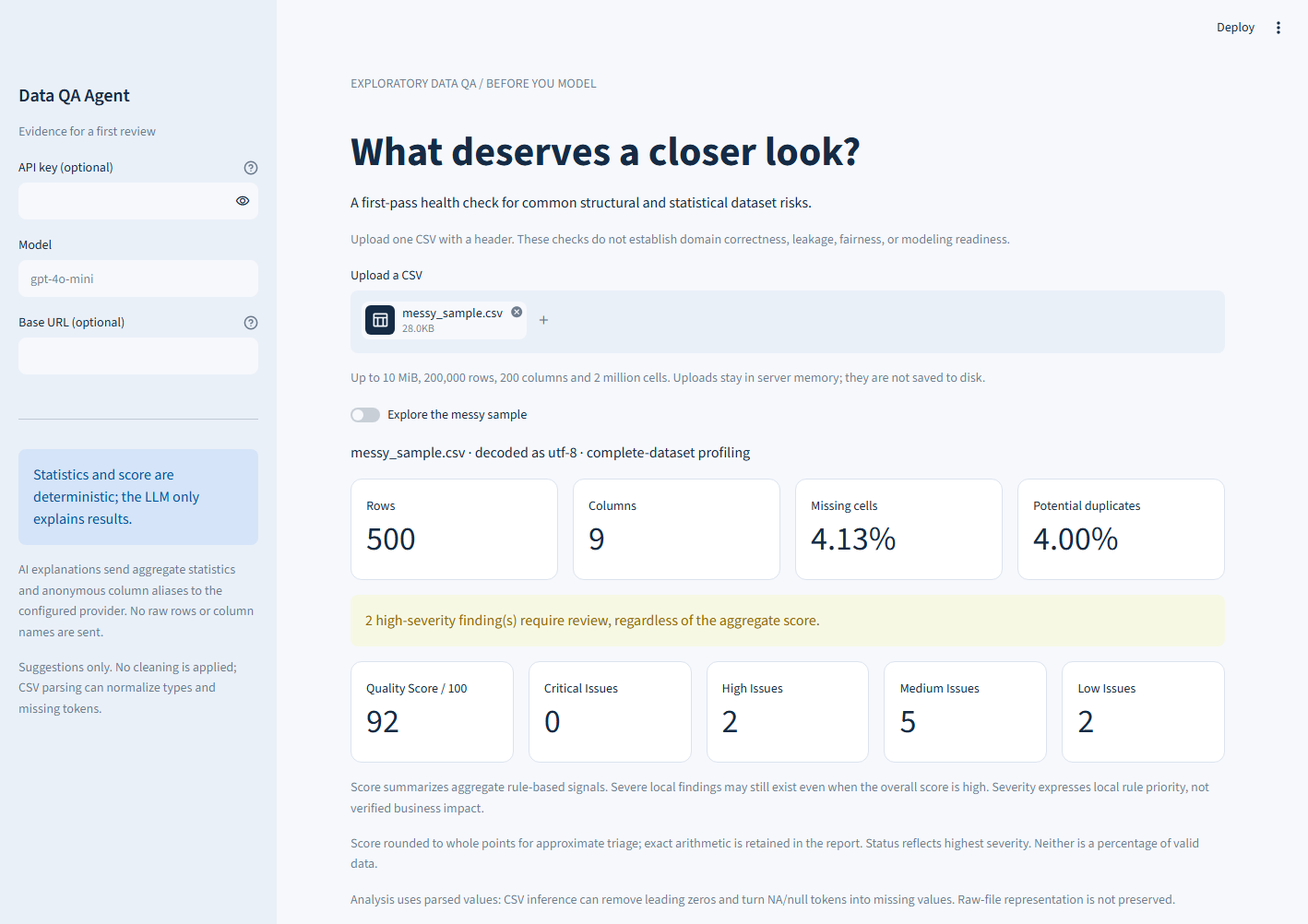
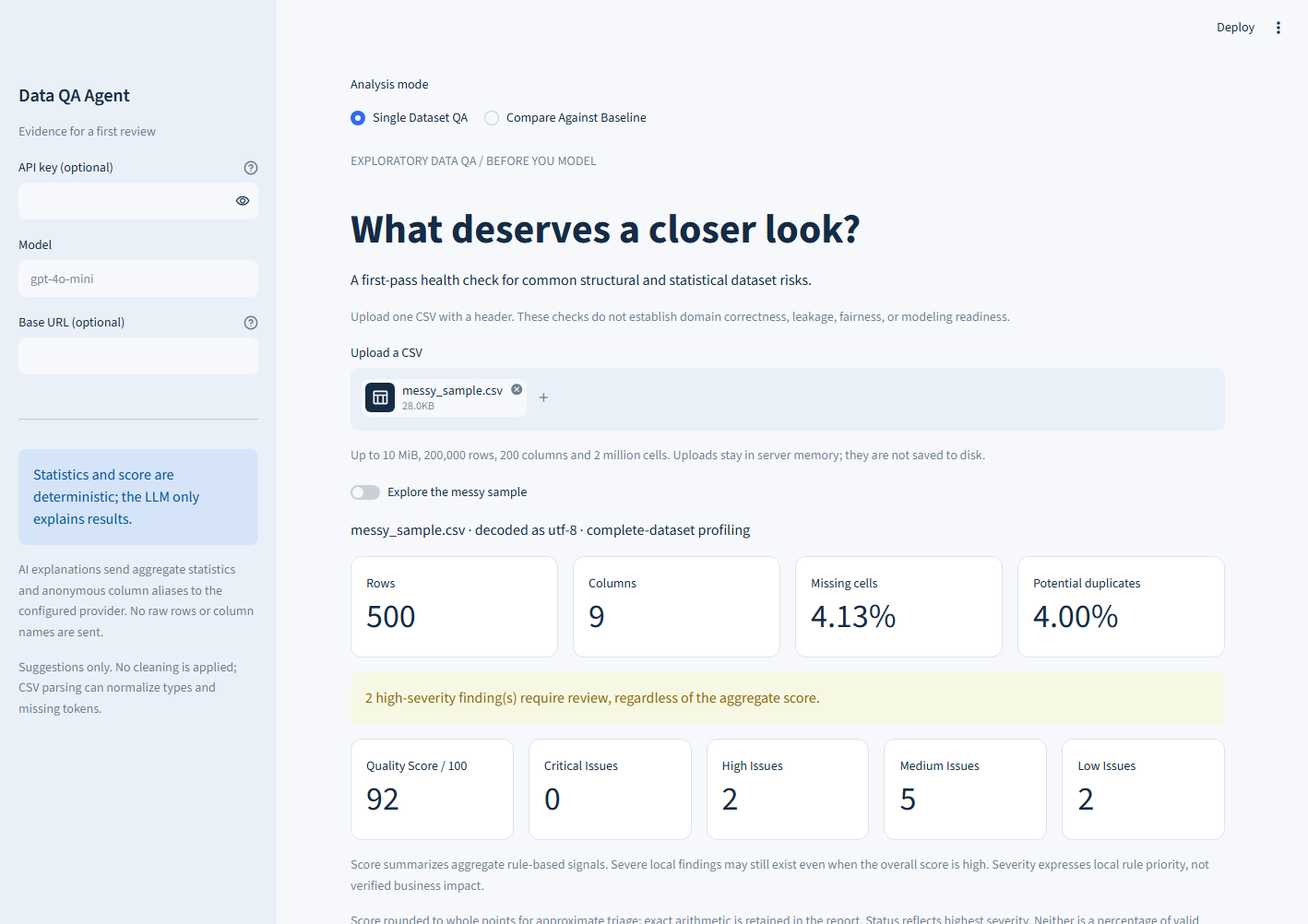
Document V2 methods, privacy boundaries, red-team findings and validation

diff --git a/docs/V2_DRIFT.md b/docs/V2_DRIFT.md
@@ -1,0 +1,74 @@
+# V2 baseline comparison: methods and boundaries
+
+`compare_datasets(baseline_df, current_df, policy=DriftPolicy(...))` returns JSON-compatible comparison schema **2.0**: `summary`, `schema`, `dataset_metrics`, shared `columns`, ordered `findings`, and the complete effective `policy`. Results have no timestamp or filename; runtime metadata belongs to optional history. App version is 2.0.0. V1 profile schema 1.4 and score policy 1.0 are unchanged.
+
+## Direction and denominators
+
+Signed changes are **current minus baseline**. Relative change is `100 * difference / abs(baseline)` when the baseline is nonzero. Absolute differences of rates are **percentage points**, separately from relative percentage change. Zero baseline or absent denominator yields JSON `null`/UI N/A. Zero rows or no shared columns yields `not_comparable`.
+
+Missingness uses pandas nulls. Duplicates count exact repeated rows after the first, divided by rows. Overall missingness divides missing cells by all cells; schema changes affect this denominator. Uniqueness divides distinct non-null values by non-null observations. These follow pandas semantics, not declared key constraints.
+
+## Schema and representation
+
+Added columns are informational; removed columns are moderate review findings. Dtype changes with the same inferred family (such as int to float) are informational. Nonempty family changes are moderate. Numeric-like text and datetime-like text use an 80% parseability threshold. These are observed representations, not intended semantics; empty columns have unknown semantics.
+
+Datetime strings require explicit year-first `YYYY-MM-DD` syntax, optionally followed by time, and successful parsing. Ambiguous regional dates and bare epoch numbers are not guessed. Native timestamps become UTC. Date-only, timestamp-text and native representation changes are informational, even when coverage is identical. Malformed non-null dates affect parseability, not missingness.
+
+## Numeric distributions
+
+**KS distance** is `max_x |F_baseline(x) - F_current(x)|` over combined observed support, in [0, 1]. Sorted Python numeric values and a two-pointer scan preserve integer ordering above 2^53 and handle ties together. No bins, smoothing, SciPy dependency, p-values, random sampling or significance claims are involved. The distance matches the two-sided statistic in the [SciPy primary documentation](https://docs.scipy.org/doc/scipy/reference/generated/scipy.stats.ks_2samp.html); this application does not implement the hypothesis test.
+
+Statistics include finite count, mean, median, sample standard deviation (`ddof=1`), min/max and 5/25/75/95 percentiles. Nulls/infinities are excluded from the distribution; positive/negative infinity counts remain visible. Fewer than two finite values gives undefined std; an empty finite sample gives undefined distance. Constant shifts can have distance one.
+
+Moments and quantiles use a scaled, canonically sorted float64 workspace to avoid square overflow and row-order-dependent summation. Extrema and KS retain parsed integer ordering; moments/quantiles remain approximate for large integers. V1's finite magnitude limit **1e150** also applies to V2, including numbers in object columns. Larger values are safely rejected. Numeric-looking CSV strings are not silently coerced into native numeric comparisons.
+
+## Categorical distributions and cardinality
+
+**Total variation distance (TVD)** is `0.5 * sum(|p_baseline(category) - p_current(category)|)` over the union of categories, excluding nulls. It lies in [0, 1]; zero means identical observed proportions. Unseen categories have zero probability on the other side, so no smoothing is needed. Membership changes are informational. Mixed object category keys distinguish strings, numbers and booleans.
+
+All values contribute to exact counters. Up to ten category changes/new/disappeared examples are displayed, truncated to 80 characters each; truncated labels need not be unique. Full support, not displayed top categories, determines TVD. If union cardinality exceeds 200, or either side has at least 20 non-null values and uniqueness >= V1's 0.95 advisory cutoff, composition details and TVD are suppressed. New/disappeared counts and cardinality remain visible without category labels. Some legitimate diverse fields are suppressed; no identifier role is established.
+
+Unique-count changes >=50% are informational. Uniqueness-ratio changes have separate bands. Sample-size changes can naturally change observed cardinality.
+
+## Datetime coverage
+
+Coverage includes earliest/latest UTC timestamp, span in days, parsed count and unique timestamp count. With at least 20 distinct timestamps per side, a span at most half the baseline or a current end at least one day earlier produces a moderate finding. Later windows are observed, not automatically suspicious.
+
+Internal gaps are reported only when every baseline distinct-timestamp interval is exactly equal and positive, and a current interval exceeds three times that cadence. Irregular baselines imply no schedule. This is comparison against observed coverage, not a business calendar, freshness SLA, seasonality model or cause.
+
+## Centralized heuristic thresholds
+
+Frozen, validated `drift.DriftPolicy` controls all thresholds and display limits; results embed its effective values.
+
+| Signal | Moderate | High |
+|---|---:|---:|
+| Shared-column missingness | 5 pp | 20 pp |
+| Overall missing/duplicate rates | 5 pp | 20 pp |
+| Relative row-count change | 20% | 50% |
+| KS distance | 0.10 | 0.25 |
+| Categorical TVD | 0.10 | 0.25 |
+| Uniqueness-ratio change | 10 pp | 30 pp |
+
+These are simple review policies, **not significance cutoffs or calibrated probabilities**. Absolute magnitudes are used: improvements also count as change. KS/TVD and cardinality alerts require at least 20 appropriate observations per side. Small-sample metrics can be displayed but are explicitly unassessed for distribution severity. This minimum does not establish representativeness or statistical power. Dataset counts/rates and schema changes remain direct observations, even for small inputs.
+
+Any high finding, or at least three moderate findings, gives **High observed drift**; otherwise any moderate gives **Moderate**; informational findings alone give **Low**. Related findings can overlap. This is not a score or probability. **Low drift does not mean healthy data**: identical bad datasets, all-null columns and skipped distributions can have low drift. The UI shows assessment coverage.
+
+## Trust and privacy
+
+Band comparisons use a centralized 1e-12 absolute/relative numerical tolerance to avoid missing exact decimal boundaries such as a theoretical TVD of 0.10 represented as 0.09999999999999998. This is floating arithmetic tolerance, not statistical uncertainty or a different severity policy.
+
+Core comparison and authored guidance need no provider. `comparison_llm.py` sends allowlisted numeric evidence and anonymous finding IDs/kinds, never filenames, column names, category labels, raw examples, timestamps or extrema. Model output cannot replace facts, order or severity. V1 schema/identity/order and lexical validation are reused, with additional causal/significance/severity phrase rejection. Failed/rejected output retains authored guidance and report access. Generated text says "Generated interpretation. Verify before acting."
+
+These guards do not semantically verify prose. Paraphrased falsehoods can pass; harmless negated wording can be rejected. No V2 live-provider success or measured explanation-quality benefit is claimed. Comparison Markdown exports omit generated prose and category values; names and aggregates remain sensitive.
+
+## Local history
+
+History is disabled unless the administrator sets **QA_HISTORY_PATH**. On trusted single-user installations the UI offers explicit Save and recent-run inspection. SQLite stores run ID, timestamp, sanitized basename filenames, row counts, status, finding-type counts and comparison version. It retains 50 runs using transactions/idempotent IDs. No datasets, column names, categories or AI text are stored. Filenames can still be sensitive.
+
+Detected non-database/corrupt files are preserved with a `.corrupt-<id>` suffix before a new history is created. Bad JSON records are skipped with a warning. Locked/incompatible databases are not renamed/reset. Quarantined files are not automatically deleted. This is not authentication, tenant isolation or durable cloud storage. Leave history disabled on public demos; enabled history is shared across visitors to that installation.
+
+## Performance and omissions
+
+All rows are analyzed without sampling. Numeric sorting is O((n+m) log(n+m)); category counting is linear before support sorting. Per-input V1 guards remain 10 MiB, 200k rows, 200 columns, 2m cells and 256 MiB deep-frame memory. Two frames, uploads and intermediates coexist; these are not process/host budgets. The shared reentrant analysis lock still protects process-global warning contexts.
+
+Derived baseline snapshots are deferred: exact empirical KS needs the empirical distribution, potentially approaching raw-value retention, and category snapshots add privacy/versioning semantics. Direct file comparison is complete. Also omitted: autonomous investigation, model-executed Python/SQL, automatic cleaning, causality, forecasting, external storage, authentication and SaaS infrastructure.

diff --git a/VALIDATION.md b/VALIDATION.md
@@ -1,5 +1,65 @@
 # Validation evidence
 
+## V2 baseline comparison acceptance (2026-10-02)
+
+Baseline: existing local V1.2 snapshot matched the published `d565180` tree. Before V2, **92 tests passed in 18.92s**, Ruff passed, and the remote branch was inspected without rewriting history. Application 2.0.0 adds comparison schema 2.0; V1 profile 1.4 and score policy 1.0 remain unchanged. No package dependency was added.
+
+| Check | Observed result |
+|---|---|
+| Windows 10 / Python 3.11.3 full suite | **158 passed in 18.54s**: 92 existing tests + 66 V2 cases |
+| Debian 12 / WSL / Python 3.11.2 full suite | **158 passed in 34.94s** |
+| Ruff and `pip check` | Passed on Windows and Linux |
+| Existing synthetic / behavioral / score evals | **8/8, 5/5, 10/10**, unchanged expectations |
+| New V2 structured evals | **24/24**, including negative controls and direction/JSON invariants |
+| Real Chrome smoke | Passed V1 and V2 uploads, no-key mode, charts (V1), baseline/current direction, comparison drift, Markdown downloads, malformed-input recovery and stale-download clearing |
+| Provider boundary | Mocked valid/rejected/failing calls passed; **V2 live provider: Not verified**, no paid V2 call made |
+| Public Streamlit deployment | **Not verified**; no tested public URL |
+| Deliverable credential/private-path scan | **94 files; zero matches**, using common credential patterns plus configured-key matches and machine home-path patterns |
+
+The browser's first load attempts timed out because the fixed test/debug connection resolved to another local application. The harness now allocates an independent debug port and verifies its exact target; the app was explicitly bound to loopback port 18517. The full browser smoke then passed. No other application was terminated. Screenshots are `docs/demo.png` and `docs/comparison.png`.
+
+### Commands and scope
+
+From the repository root with the existing Windows virtual environment:
+
+```powershell
+.venv-v1-1/Scripts/python -m pytest -q
+.venv-v1-1/Scripts/python -m ruff check .
+.venv-v1-1/Scripts/python -m pip check
+.venv-v1-1/Scripts/python evals/comparison.py --output evals/comparison-results.json
+.venv-v1-1/Scripts/python benchmarks/comparison.py --output benchmarks/comparison-results.json
+# Clear provider configuration and history in this test shell.
+$env:OPENAI_API_KEY=''
+$env:OPENAI_BASE_URL=''
+$env:QA_HISTORY_PATH=''
+.venv-v1-1/Scripts/python -m streamlit run app.py --server.headless true --server.address 127.0.0.1 --server.port 18517
+# In another shell, set CHROME_PATH to your Chromium executable and:
+$env:QA_BROWSER_PORT='18517'
+.venv-v1-1/Scripts/python tests/browser_smoke.py
+```
+
+All four evaluation `run()` functions were also invoked together with assertions on every `passed` flag. Linux reused the isolated Debian interpreter and Linux packages described in the V1.2 section, running pytest, Ruff, pip consistency and all four evaluation suites. Source is on a Windows-mounted filesystem: this verifies Linux execution, not case-sensitive filesystem behavior or a Community Cloud image.
+
+### Methods and edge cases
+
+KS uses full finite empirical support; TVD uses full non-null category support unless high cardinality is explicitly suppressed. No sampling, random bins, p-values or significance claims. Centralized policy defaults: missing/rate changes 5/20 pp, rows 20/50%, KS and TVD .10/.25, uniqueness 10/30 pp, minimum 20 observations for distribution severity. Effective policy is embedded in results. See [methods](docs/V2_DRIFT.md) for formulas, zero denominators, datetime cadence rules and the 1e-12 boundary tolerance.
+
+Tests cover empty/one-row/disjoint schemas, nullable types, missingness both directions, constant distributions, non-finite values, huge integers, supported extreme floats and safely rejected magnitudes, malformed dates, high cardinality, category ordering, unseen categories/zero probabilities, duplicate headers, row permutations and concurrent warning restoration. Local history tests cover save/reload, pruning/idempotence, preserved corruption recovery, wrong JSON types and locked-database safety. Mocked UI tests verify generated labels and rejected-output fallback. See [red-team findings](docs/V2_RED_TEAM.md).
+
+### V2 resource snapshot
+
+Windows/Python 3.11.3, pandas 2.3.3, NumPy 2.4.6, eight logical CPUs. Two four-column frames per case; fresh process per size; input construction excluded; sampled RSS every 5ms includes retained inputs and imports. Core only: no CSV parsing, Streamlit, history, LLM or concurrent-user cost.
+
+| Rows per input | Seconds | Sampled peak RSS |
+|---|---:|---:|
+| 1,000 | 0.0788 | 77.48 MiB |
+| 10,000 | 0.4855 | 86.20 MiB |
+| 100,000 | 4.7726 | 167.70 MiB |
+
+These are single local observations, not latency percentiles or hosted capacity. Both uploads/frames can coexist with a retained single-dataset session. Per-input limits and serialized analysis do not bound total host memory.
+
+Remaining uncertainty: uncalibrated severity, overlapping findings, lossy CSV inference, skipped/tiny distributions, approximate float64 moments, no business calendar or causal inference, lexical-only explanation guards, local history without tenant isolation, no persistent baseline snapshot, no verified public V2 deployment. Earlier sections below retain historical V1 evidence and remote run links.
+
 ## GitHub publication follow-up (2026-09-27 UTC)
 
 The user supplied `https://github.com/kaimouren/analysis_tool.git`; it had no remote refs. GitHub credentials were available at this follow-up. The reviewed 80-file source archive was committed without the old local history and pushed as `6c6c5d24610cbc0830c0819eba5eb7ca137315f1` on `main`. No existing repository content was overwritten.

diff --git a/README.md b/README.md
@@ -2,6 +2,29 @@
 
 **A deterministic-first CSV health check that surfaces common structural and statistical risks before modeling, with optional LLM explanations.**
 
+V2 adds **baseline comparison and data drift analysis**. Keep the existing health check, or compare a previous CSV with a current CSV. Python computes all evidence, metrics, ordering and severity; optional generated text only explains that evidence.
+
+## Compare against a baseline (V2)
+
+Select **Compare Against Baseline**, upload **Baseline dataset** and **Current dataset**, then click **Compare**. A built-in example works without files or a provider key. Results include schema, row/column counts, missingness/duplicates, cardinality, numeric/categorical distributions and conservative datetime coverage, with shared-column details and Markdown download.
+
+An illustrative review might compare 100k January customer records with 95k February records and reveal mobile share +18 percentage points, email missingness +12 percentage points, and a downward revenue distribution shift. These observations do not establish why changes happened or whether they are harmful.
+
+Numeric comparison uses KS distance; categorical comparison uses total variation distance. Missingness differences are **percentage points**. Zero denominators show N/A. Low/Moderate/High observed drift is a heuristic, not a calibrated probability or quality score. Low drift can coexist with unhealthy or unassessed data.
+
+![Baseline/current comparison](docs/comparison.png)
+
+The independent API is:
+
+```python
+from comparison import compare_datasets
+result = compare_datasets(baseline_df, current_df)
+```
+
+All rows are analyzed. High-cardinality category details are suppressed; small-sample distances receive no distribution severity. Finite numeric magnitudes over 1e150 are rejected. Read [V2 methods, thresholds, schema and limitations](docs/V2_DRIFT.md).
+
+Optional **local run history** stores metadata only. On a trusted single-user installation, set `QA_HISTORY_PATH` to `.qa-history/comparisons.sqlite3`, restart, and use **Save run to local history**. Recent history retains 50 entries. Leave the variable unset on public deployments: server-local history is not isolated between visitors. Raw datasets, category values and generated prose are never stored. Derived baseline snapshots are deferred; direct file comparison is supported.
+
 ## Live Demo
 
 Public deployment: **Not verified**. No public URL is claimed. Run locally and select **Explore the messy sample**.
@@ -48,9 +71,16 @@ flowchart LR
     Score --> Report
     Optional --> Report
     Optional --> UI
+    Baseline[Baseline CSV] --> Comparison[Deterministic comparison]
+    Current[Current CSV] --> Comparison
+    Comparison --> DriftUI[Drift UI and report]
+    Comparison --> DriftLLM[Optional grounded explanation]
+    Comparison --> History[Opt-in local metadata history]
 ```
 
 `ingestion.py` validates input and retains bounded pre-inference examples. `qa_core.py` computes statistics, findings, severity and score using `policy.py`; `analysis.py` adds run metadata and safe errors. `llm.py` contains optional prose and authored fallback. `app.py`, `presentation.py` and `report.py` present results. Effective thresholds and profile/score versions accompany the report; timestamps do not affect deterministic results.
+
+V2 reuses ingestion and adds `comparison.py` for structured comparison, `drift.py` for metrics/policy, `comparison_llm.py` for optional interpretation, `comparison_ui.py` for presentation/export, and `history.py` for explicit metadata saves. No dependency was added.
 
 ## What the score means
 
@@ -148,6 +178,7 @@ python -m ruff check .
 python evals/run.py
 python evals/behavioral.py
 python evals/stress.py
+python evals/comparison.py
 ```
 
 Tests cover numerical examples, boundary conditions, parser failures, raw-sample bounds/privacy, dual score/severity UI, provider fallback, reproducibility and concurrency restoration. Eight synthetic fixtures and five fictional export scenarios provide regression/behavioral coverage, not population accuracy. Ten scoring stress cases expose misleading aggregate interpretations. Five controlled mutations were caught by assertions; optional browser tests exercise real uploads, charts and report downloads.
@@ -169,7 +200,7 @@ Tests cover numerical examples, boundary conditions, parser failures, raw-sample
 
 The next candidate is **explicit data contracts**: declared types, missing-value conventions, uniqueness/key rules and business constraints. This would make intent explicit rather than adding more guesses. It is not implemented in V1.2.
 
-No automatic cleaning, model training, target selection, database, background jobs, authentication or monitoring platform is included. See [release notes](docs/RELEASE_V1_2.md) and [interview guide](docs/INTERVIEW_GUIDE.md).
+No automatic cleaning, model training, target selection, external database, background jobs, authentication or monitoring platform is included. V2 adds optional local SQLite metadata history. See [V2 methods](docs/V2_DRIFT.md), [historical V1.2 release notes](docs/RELEASE_V1_2.md) and [interview guide](docs/INTERVIEW_GUIDE.md).
 
 ## License
 

diff --git a/docs/V2_RED_TEAM.md b/docs/V2_RED_TEAM.md
@@ -1,0 +1,24 @@
+# V2 red-team review
+
+The review targeted mathematical boundaries, misleading interpretation, failure recovery and persistence. These are observed engineering checks, not an independent security certification or real-world accuracy estimate.
+
+| Failure or risk | Resolution / evidence |
+|---|---|
+| Python integers in object columns bypassed the native numeric magnitude guard | Apply the same 1e150 guard to object integer/float scalars; reject larger finite values with a safe error. |
+| Converting integer support to float64 could erase drift between adjacent values above 2^53 | KS uses Python numeric ordering and exact parsed extrema. Test adjacent integers near 2^63; moments remain explicitly approximate. |
+| Exact decimal TVD cutoff could compute just below 0.10 | Centralized 1e-12 boundary tolerance, tested below/at moderate and at high cutoffs. |
+| Float moments can vary with input row order | Canonical sort before scaled moment/quantile calculations; random permutation regression test. |
+| Date-only to timestamp-text change could be invisible | Informational representation evidence, separate from coverage change; identical time coverage does not get a risky alert. |
+| Irregular dates could invite invented gap expectations | Only an exactly regular baseline with sufficient distinct timestamps enables gap comparison; irregular-baseline negative control. |
+| Tiny/empty/all-null datasets could look reassuring | Undefined denominators remain null; empty/no-overlap status is not comparable. Tiny distributions are explicitly unassessed. UI states low drift does not mean healthy and shows assessment coverage. |
+| Missingness improvement could be mistaken for worsening | Signed current-minus-baseline pp are preserved; summary measures magnitude, with explicit disclosure that improvements count as drift. |
+| Infinity sign changes could disappear when both finite subsets were empty | Separate positive/negative infinity counts and informational change evidence. |
+| Model prose could assert causes, significance, numbers or upgraded severity | Reuse structured ID/order/schema checks and lexical guardrails, add drift-specific phrase rejection; mocked malicious outputs fall back without mutating findings. Paraphrase bypass remains a limitation. |
+| A safe negated caveat was rejected by literal word guards | Authored fallback uses neutral descriptive wording; document lexical false positives, do not claim semantic validation. |
+| Failed recomputation could expose a stale download | Clear prior result/guidance before recomputation and when input identities change; UI and real-browser tests verify removal. |
+| A locked database might be mistaken for corruption and renamed | Restrict recovery to SQLite corruption/not-a-database codes. Lock test proves history remains intact. |
+| Corrupt JSON metadata with wrong field types could reach UI | Validate record types and skip damaged records with a visible warning. |
+| Public history could expose other visitors' filenames | Require administrator environment opt-in, default off; explicit local single-user scope and no uploaded data persistence. |
+| Fixed browser debugging port could attach to another local app | Smoke harness allocates its own debugging port and verifies the exact target URL; app test server binds an explicit loopback port. |
+
+Remaining limits: heuristic thresholds and overlapping findings; sample-size-sensitive cardinality; tiny-sample uncertainty; conservative datetime parsing and no business calendar; high-cardinality composition skipped; no multivariate/conditional drift or row matching; numeric moments approximate; input inference remains lossy; no semantic truth guarantee for prose; no tenant isolation, admission control or cloud durability. No true V2 live-provider or public deployment claim is made.

diff --git a/docs/DEPLOYMENT.md b/docs/DEPLOYMENT.md
@@ -4,6 +4,10 @@ Status: source is published at [kaimouren/analysis_tool](https://github.com/kaim
 
 ## Local setup
 
+V2 uses the same Python 3.11 entrypoint and dependencies. Both single-dataset and comparison modes are available in `app.py`. Leave `QA_HISTORY_PATH` unset on public Streamlit deployments; setting it enables shared server-local metadata history without user isolation. For a trusted local installation, set it to `.qa-history/comparisons.sqlite3` before starting Streamlit. The variable is environment-only; no visitor can select a filesystem path. Cloud-local files are not a durable storage guarantee.
+
+V2 acceptance additionally runs `python evals/comparison.py`. Smoke-test baseline/current uploads, direction, no-key guidance, comparison report download and stale-result removal after changing inputs. Two uploads and their intermediates coexist, so do not infer hosting capacity from V1's single-frame measurements.
+
 Use Python 3.11 and a virtual environment, then install `requirements.txt` and run `python -m streamlit run app.py`. Development verification uses `requirements-dev.txt`, which includes runtime dependencies. No global package installation or API credential is required. `.env.example` is a reference; the application does not load it automatically.
 
 ## Streamlit Community Cloud

diff --git a/docs/SECURITY.md b/docs/SECURITY.md
@@ -1,5 +1,11 @@
 # Security and privacy
 
+## V2 comparison additions
+
+Both uploads remain in server memory. Comparison results can contain bounded local category examples; the provider payload and Markdown export exclude them. Provider payloads also exclude names, timestamps and extrema. Generated text remains unverified prose with schema/lexical guardrails.
+
+`QA_HISTORY_PATH` explicitly enables local SQLite metadata persistence and is intended for trusted single-user installations only. A Save action stores basename filenames, time, counts, summary and finding-type counts; no rows, categories, column names or generated prose. The latest 50 runs remain. Filenames may be sensitive. Corrupt-file backups remain until manually removed. This history has no per-user isolation: leave the variable unset on public demos. Source-control ignore rules exclude history files. Cloud-local files may be ephemeral.
+
 ## Threat assumptions
 
 CSV uploads, filenames, headers, and provider prose are untrusted content. The server administrator, installed dependencies and explicitly approved provider endpoints are trusted. V1 is a bounded, single-process exploration tool; it is not an authenticated multi-tenant service or hardened sandbox. Use synthetic data for public demos. No authentication was added.
